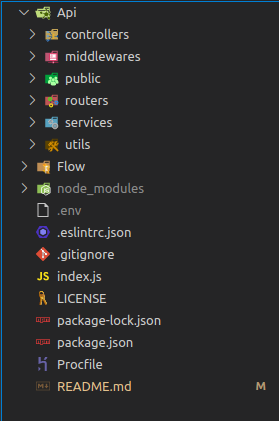
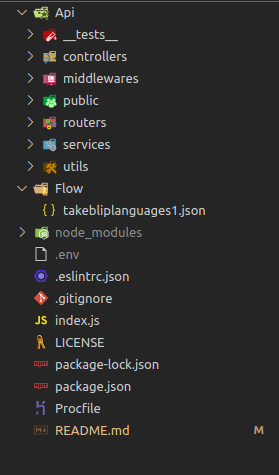
Atualizando readme, finalizando edição

Changed region(s): [[0.0, 0.0, 1.0, 1.0], [0.8889, 0.8955, 0.9749, 0.9264]]

diff --git a/README.md b/README.md
@@ -36,6 +36,9 @@ A aquitetura pensada foi a **`MSC`**.
 
 6. Pasta ultils contém pequenas funções, neste projeto possui a requisição para API do github.
 
+7. __tests__ Pasta responsável pelos testes da aplicação, somente a camada services tem os testes 
+  implementados.
+
 - #### Flow
 
 1. Pasta Flow possui todo fluxo do bot desenvolvido na plataforma da [Take Blip](https://digital.take.net/conversas-inteligentes/?utm_source=Google&utm_medium=cpc&utm_term=take%20blip&utm_campaign=SEMB_Take-Blip-geral%20%28b-p-e%29&hsa_acc=2783574544&hsa_kw=take%20blip&hsa_ve=3&hsa_ad=511086110762&hsa_net=adwords&hsa_mt=e&hsa_cam=12320816312&hsa_src=g&hsa_tgt=aud-1180190166859:kwd-809239209550&hsa_grp=117951638579&utm_id=go_cmp-12320816312_adg-117951638579_ad-511086110762_aud-1180190166859:kwd-809239209550_dev-c_ext-_prd-_mca-_sig-CjwKCAjwjdOIBhA_EiwAHz8xm2U8kiDYD_yfPk0TQOn6w0tNpnvY_F1ycQOeXjHhZR8TlRSttX_gxxoCTDYQAvD_BwE&gclid=CjwKCAjwjdOIBhA_EiwAHz8xm2U8kiDYD_yfPk0TQOn6w0tNpnvY_F1ycQOeXjHhZR8TlRSttX_gxxoCTDYQAvD_BwE).
@@ -60,6 +63,11 @@ A aquitetura pensada foi a **`MSC`**.
     - moment
 - Requisição API:
     - node-fetch
+- Testes:
+    - mocha
+    - chai
+    - sinon
+
 
 ## Começando
 
